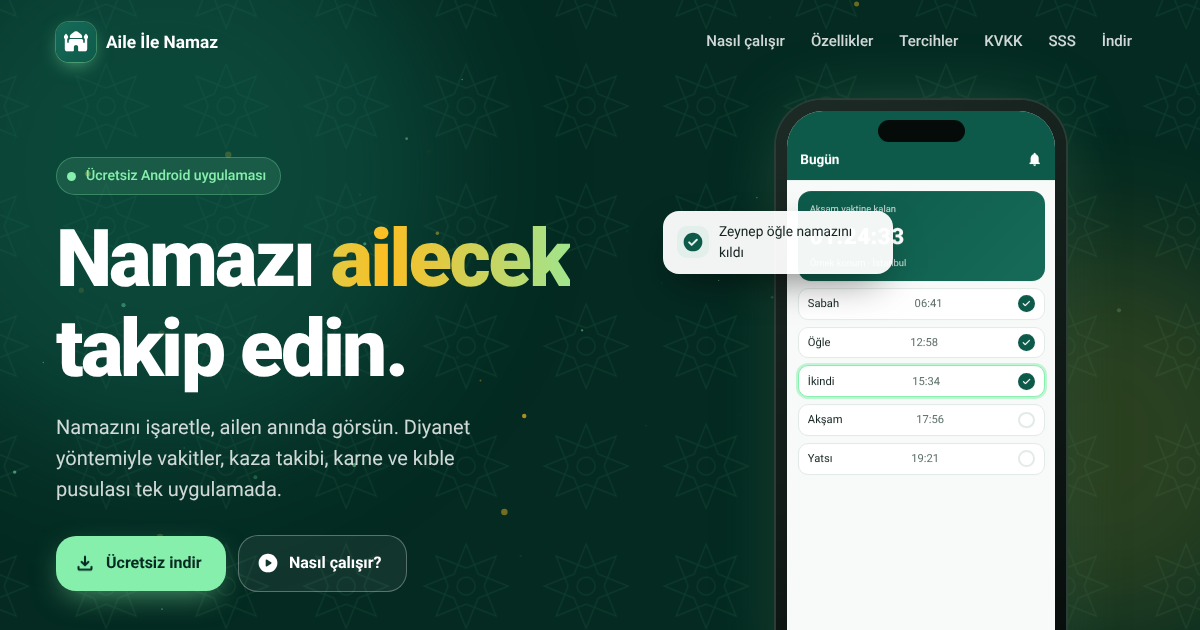
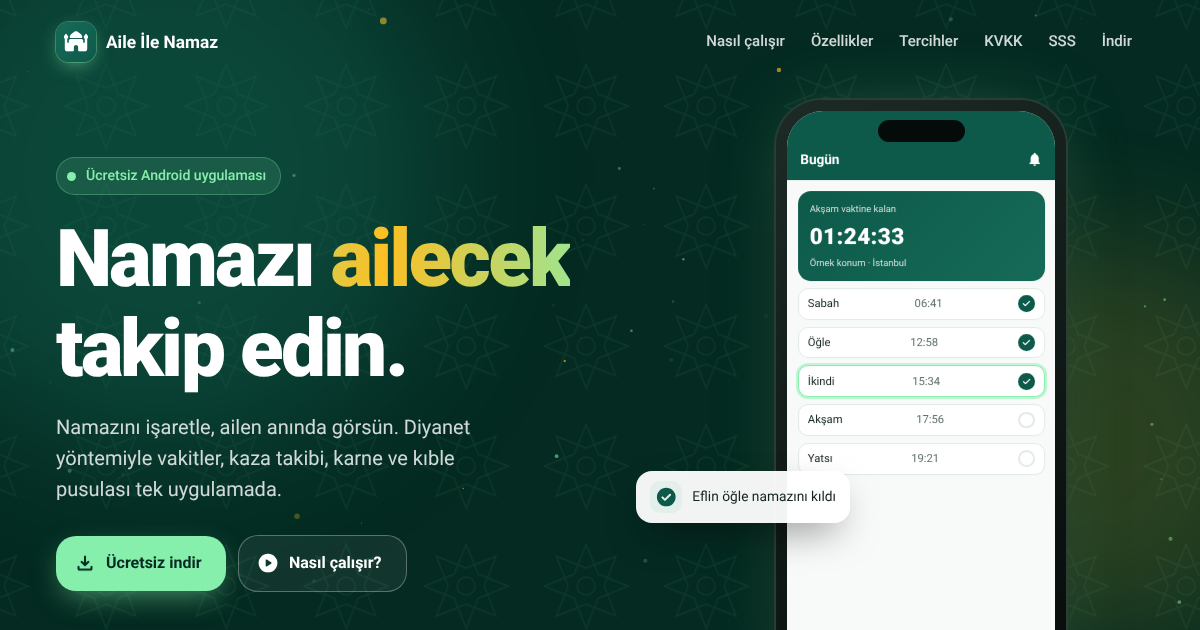
Tanıtım sitesi: canlı metinler, örnek isimler, düzeltmeler
- Gelecek zamanlı ve dağıtım kanalı ifadeleri kaldırıldı; örnek isimler güncellendi
- Derleme kanonik/OG/JSON-LD adreslerini boşaltıyordu, düzeltildi
- Erişilebilirlik ve HTML doğrulama düzeltmeleri (tablo başlıkları, main bölgesi, kontrast)

Claude-Session: https://claude.ai/code/session_01UZxX5PSChAXaJ22tX5oBzk

Changed region(s): [[0.555, 0.3317, 0.7708, 0.4825], [0.5242, 0.7238, 0.7092, 0.8746]]

diff --git a/docs/index.html b/docs/index.html
@@ -12,7 +12,7 @@
 <meta name="geo.region" content="TR">
 <meta name="geo.placename" content="Türkiye">
 <meta http-equiv="content-language" content="tr">
-<link rel="canonical" href="">
+<link rel="canonical" href="https://bilkil53.github.io/aile-ile-namaz/">
 <link rel="icon" href="icon.svg" type="image/svg+xml">
 <link rel="apple-touch-icon" href="og.png">
 <link rel="sitemap" type="application/xml" href="sitemap.xml">
@@ -21,64 +21,64 @@
 <meta property="og:site_name" content="Aile İle Namaz">
 <meta property="og:title" content="Aile İle Namaz – Namazı ailecek takip edin">
 <meta property="og:description" content="5 vakit namaz takibi, aile havuzu, kaza takibi, karne ve kıble pusulası. Ücretsiz Android uygulaması.">
-<meta property="og:url" content="">
-<meta property="og:image" content="og.png">
+<meta property="og:url" content="https://bilkil53.github.io/aile-ile-namaz/">
+<meta property="og:image" content="https://bilkil53.github.io/aile-ile-namaz/og.png">
 <meta property="og:image:width" content="1200">
 <meta property="og:image:height" content="630">
 <meta property="og:image:alt" content="Aile İle Namaz uygulaması: aile havuzu ve namaz vakitleri">
 <meta name="twitter:card" content="summary_large_image">
 <meta name="twitter:title" content="Aile İle Namaz – Namazı ailecek takip edin">
 <meta name="twitter:description" content="5 vakit namaz takibi, aile havuzu, kaza takibi, karne ve kıble pusulası.">
-<meta name="twitter:image" content="og.png">
+<meta name="twitter:image" content="https://bilkil53.github.io/aile-ile-namaz/og.png">
 <script type="application/ld+json">
 {
   "@context": "https://schema.org",
   "@graph": [
     {
       "@type": "WebSite",
-      "@id": "#website",
-      "url": "",
+      "@id": "https://bilkil53.github.io/aile-ile-namaz/#website",
+      "url": "https://bilkil53.github.io/aile-ile-namaz/",
       "name": "Aile İle Namaz",
       "inLanguage": "tr-TR",
-      "publisher": { "@id": "#org" }
+      "publisher": { "@id": "https://bilkil53.github.io/aile-ile-namaz/#org" }
     },
     {
       "@type": "Organization",
-      "@id": "#org",
+      "@id": "https://bilkil53.github.io/aile-ile-namaz/#org",
       "name": "Aile İle Namaz",
-      "url": "",
-      "logo": "og.png",
+      "url": "https://bilkil53.github.io/aile-ile-namaz/",
+      "logo": "https://bilkil53.github.io/aile-ile-namaz/og.png",
       "areaServed": { "@type": "Country", "name": "Türkiye" }
     },
     {
       "@type": "MobileApplication",
-      "@id": "#app",
+      "@id": "https://bilkil53.github.io/aile-ile-namaz/#app",
       "name": "Aile İle Namaz",
       "operatingSystem": "Android",
       "applicationCategory": "LifestyleApplication",
       "inLanguage": ["tr", "en"],
       "countriesSupported": "TR",
-      "url": "",
+      "url": "https://bilkil53.github.io/aile-ile-namaz/",
       "downloadUrl": "https://github.com/bilkil53/aile-ile-namaz/releases/latest",
-      "image": "og.png",
+      "image": "https://bilkil53.github.io/aile-ile-namaz/og.png",
       "description": "Ailenle birlikte 5 vakit namaz takibi: Diyanet yöntemiyle namaz vakitleri, en çok 5 kişilik aile havuzu, kaza namazı takibi, karne ve rozetler, kıble pusulası, vakit ve mübarek gün hatırlatmaları.",
       "featureList": ["5 vakit namaz takibi", "Diyanet yöntemiyle namaz vakitleri", "Aile havuzu (en çok 5 kişi)", "Kaza namazı takibi", "Karne, seri ve rozetler", "Kıble pusulası", "Vakit, Cuma ve mübarek gün hatırlatmaları", "İnternetsiz çalışma"],
       "offers": { "@type": "Offer", "price": "0", "priceCurrency": "TRY" },
-      "publisher": { "@id": "#org" }
+      "publisher": { "@id": "https://bilkil53.github.io/aile-ile-namaz/#org" }
     },
     {
       "@type": "FAQPage",
-      "@id": "#sss",
+      "@id": "https://bilkil53.github.io/aile-ile-namaz/#sss",
       "mainEntity": [
         { "@type": "Question", "name": "Aile İle Namaz nedir?", "acceptedAnswer": { "@type": "Answer", "text": "Aile İle Namaz, 5 vakit namazı ailecek takip etmek için hazırlanmış ücretsiz bir Android uygulamasıdır. Namazını işaretlersin, aile havuzundaki kişiler anında görür; kaza namazı takibi, karne ve kıble pusulası da vardır." } },
-        { "@type": "Question", "name": "Uygulama ücretli mi?", "acceptedAnswer": { "@type": "Answer", "text": "Bireysel kullanım ücretsizdir. Aile Pro isteğe bağlıdır; aile reisinin Pro alması, havuzdaki herkesi (en çok 5 kişi) Pro yapar. Satın alma Google Play üzerinden yapılacaktır." } },
+        { "@type": "Question", "name": "Uygulama ücretli mi?", "acceptedAnswer": { "@type": "Answer", "text": "Bireysel kullanım ücretsizdir. Aile Pro isteğe bağlıdır; aile reisinin Pro alması, havuzdaki herkesi (en çok 5 kişi) Pro yapar. Fiyat ve koşullar satın almadan önce uygulamada gösterilir." } },
         { "@type": "Question", "name": "Namaz vakitleri nasıl hesaplanıyor?", "acceptedAnswer": { "@type": "Answer", "text": "Vakitler bulunduğun konuma göre Diyanet İşleri Başkanlığı hesaplama yöntemiyle alınır. Aylık vakitler telefona kaydedildiği için internet olmadan da hatırlatmalar çalışır." } },
         { "@type": "Question", "name": "Aile havuzuna kaç kişi katılabilir?", "acceptedAnswer": { "@type": "Answer", "text": "Bir aile havuzunda en çok 5 kişi olur. Havuzu kuran kişi davet kodunu paylaşır, diğerleri bu kodla katılır." } },
         { "@type": "Question", "name": "Ailem kaza borcumu görebilir mi?", "acceptedAnswer": { "@type": "Answer", "text": "Hayır, ayrıntıyı göremez. Kaza bölümü mahremiyet korumalıdır; aile üyeleri yalnızca özet durumu görür." } },
         { "@type": "Question", "name": "Giriş yapmadan kullanabilir miyim?", "acceptedAnswer": { "@type": "Answer", "text": "Evet, gezinti modunda tüm ekranlara bakabilirsin. Gezinti yalnızca bakmak içindir; işaretleme, kayıt ve aile havuzu için Google ile giriş gerekir." } },
         { "@type": "Question", "name": "Verilerim nerede saklanıyor?", "acceptedAnswer": { "@type": "Answer", "text": "Veriler Avrupa Birliği'ndeki (Almanya, Frankfurt) sunucularda şifreli bağlantıyla saklanır, satılmaz ve reklam amacıyla kullanılmaz. Namaz kayıtları özel nitelikli veri sayıldığı için açık rızan alınır." } },
         { "@type": "Question", "name": "Hesabımı nasıl silerim?", "acceptedAnswer": { "@type": "Answer", "text": "Uygulamada Ayarlar bölümünden hesabını ve verilerini silebilirsin. Uygulamaya erişimin yoksa web sitesindeki Hesap silme sayfasındaki adımları izleyebilirsin." } },
-        { "@type": "Question", "name": "iPhone sürümü var mı?", "acceptedAnswer": { "@type": "Answer", "text": "Şimdilik yalnızca Android sürümü vardır. Uygulama GitHub üzerinden dağıtılıyor, Google Play sürümü hazırlanıyor." } }
+        { "@type": "Question", "name": "iPhone sürümü var mı?", "acceptedAnswer": { "@type": "Answer", "text": "Uygulama Android telefonlar için hazırdır; sayfadaki indirme düğmesiyle hemen kurabilirsin. iPhone sürümü yoktur." } }
       ]
     }
   ]
@@ -374,7 +374,7 @@ section.blk { padding-block: 80px; }
 .on .consent:nth-child(2) .box path { animation-delay: 0.5s; }
 @keyframes draw { from { stroke-dashoffset: 24; } }
 .consent > div { display: grid; gap: 4px; min-width: 0; }
-.caption { font-size: 0.88rem; color: var(--text-3); margin-bottom: 30px; }
+.caption { font-size: 0.88rem; color: var(--text-2); margin-bottom: 30px; }
 .facts { display: grid; grid-template-columns: repeat(3, 1fr); gap: 14px; }
 .fact { background: var(--card); border: 1px solid var(--border); border-radius: 20px; padding: 18px; display: grid; gap: 6px; align-content: start; }
 .fact .ms { font-size: 26px; color: var(--emerald); }
@@ -488,7 +488,7 @@ footer { position: relative; z-index: 1; border-top: 1px solid rgba(134,239,172,
         <a href="#sss">SSS</a>
         <a href="#indir">İndir</a>
       </nav>
-      <button class="menu-btn" id="menuBtn" aria-label="Menüyü aç" aria-expanded="false" aria-controls="nav"><span class="ms" aria-hidden="true">menu</span></button>
+      <button type="button" class="menu-btn" id="menuBtn" aria-label="Menüyü aç" aria-expanded="false" aria-controls="nav"><span class="ms" aria-hidden="true">menu</span></button>
     </div>
   </header>
 
@@ -511,7 +511,7 @@ footer { position: relative; z-index: 1; border-top: 1px solid rgba(134,239,172,
       </div>
       <div class="stage" id="heroStage">
         <div class="phone tilt" id="heroPhone"><div class="screen" data-screens></div></div>
-        <div class="bubble b1"><span class="ms e" aria-hidden="true">check_circle</span><span>Zeynep öğle namazını kıldı</span></div>
+        <div class="bubble b1"><span class="ms e" aria-hidden="true">check_circle</span><span>Eflin öğle namazını kıldı</span></div>
         <div class="bubble b2"><span class="ms g" aria-hidden="true">notifications_active</span><span>İkindi vakti girdi</span></div>
         <div class="bubble b3"><span class="ms p" aria-hidden="true">emoji_events</span><span>Yeni rozet: İstikrar Yıldızı</span></div>
       </div>
@@ -643,16 +643,16 @@ footer { position: relative; z-index: 1; border-top: 1px solid rgba(134,239,172,
           <div>
             <p class="label" style="color:#92400e">Aile Pro</p>
             <h2>Bir kişi alır, bütün aile Pro olur</h2>
-            <p>Bireysel kullanım ücretsizdir. Aile Pro'da aile reisinin Pro alması yeter: aile havuzundaki herkes (en çok 5 kişi) Pro olur. Satın alma Google Play üzerinden yapılacak, fiyatlar Play'de gösterilecek.</p>
+            <p>Bireysel kullanım ücretsizdir. Aile Pro'da aile reisinin Pro alması yeter: aile havuzundaki herkes (en çok 5 kişi) Pro olur. Fiyat ve koşullar satın almadan önce uygulamada gösterilir.</p>
           </div>
           <div class="ringfam" aria-hidden="true">
             <div class="spin"></div>
             <div class="crown"><span class="ms">workspace_premium</span></div>
             <span class="av" style="--k:0;background:#0e5a4a">A</span>
             <span class="av" style="--k:1;background:#0369a1">B</span>
-            <span class="av" style="--k:2;background:#ea580c">Z</span>
-            <span class="av" style="--k:3;background:#7e22ce">A</span>
-            <span class="av" style="--k:4;background:#d97706">E</span>
+            <span class="av" style="--k:2;background:#ea580c">E</span>
+            <span class="av" style="--k:3;background:#7e22ce">M</span>
+            <span class="av" style="--k:4;background:#d97706">+</span>
           </div>
         </div>
       </section>
@@ -668,8 +668,8 @@ footer { position: relative; z-index: 1; border-top: 1px solid rgba(134,239,172,
       <svg class="mosque" viewBox="0 0 1200 120" preserveAspectRatio="xMidYMax slice" aria-hidden="true"><path fill="#86efac" d="M0 120V96h120V70h10V40l4-8 4 8v30h10v26h40V80c0-22 18-40 40-40s40 18 40 40v16h30V60l6-14 6 14v36h60V84c0-40 34-72 76-72s76 32 76 72v12h60V60l6-14 6 14v36h30V80c0-22 18-40 40-40s40 18 40 40v16h40V70h10V40l4-8 4 8v30h10v26h180V84c0-18 16-32 34-32s34 14 34 32v12h112v24z"/></svg>
       <div class="in" style="position:relative">
         <h2 class="rv">Ailene davet kodunu gönder, birlikte başlayın</h2>
-        <p class="rv" style="--d:1">Uygulama şimdilik Android için GitHub üzerinden dağıtılıyor, Google Play sürümü hazırlanıyor. Türkçe ve İngilizce.</p>
-        <div class="cta rv" style="--d:2"><a class="btn main mag" href="https://github.com/bilkil53/aile-ile-namaz/releases/latest"><span class="ms" aria-hidden="true">android</span>Son sürümü indir (APK)</a></div>
+        <p class="rv" style="--d:1">Android telefonuna hemen kur, aile havuzunu kur ve davet kodunu paylaş. Türkçe ve İngilizce.</p>
+        <div class="cta rv" style="--d:2"><a class="btn main mag" href="https://github.com/bilkil53/aile-ile-namaz/releases/latest"><span class="ms" aria-hidden="true">android</span>Android için indir (APK)</a></div>
       </div>
     </section>
   </main>
@@ -682,7 +682,7 @@ footer { position: relative; z-index: 1; border-top: 1px solid rgba(134,239,172,
         <a href="kullanim-kosullari.html">Kullanım Koşulları</a>
         <a href="cerez-politikasi.html">Çerez Politikası</a>
         <a href="delete-account.html">Hesap silme</a>
-        <a href="https://github.com/bilkil53/aile-ile-namaz/issues">Destek</a>
+        <a href="privacy.html#kvkk">İletişim</a>
       </nav>
     </div>
   </footer>
@@ -708,7 +708,7 @@ footer { position: relative; z-index: 1; border-top: 1px solid rgba(134,239,172,
   var V = [["Sabah", "06:41"], ["Öğle", "12:58"], ["İkindi", "15:34"], ["Akşam", "17:56"], ["Yatsı", "19:21"]];
   function tabs(k) { return '<div class="tabs">' + ["home", "groups", "calendar_month", "emoji_events", "explore"].map(function (n, i) { return '<span class="ms' + (i === k ? " on" : "") + '">' + n + "</span>"; }).join("") + "</div>"; }
   function bar(t, ic) { return '<div class="abar"><b>' + t + '</b><span class="ms">' + ic + "</span></div>"; }
-  var fam = [["Anne", "#0e5a4a", [1, 1, 1, 0, 0]], ["Baba", "#0369a1", [1, 1, 1, 0, 0]], ["Zeynep", "#ea580c", [1, 1, 0, 0, 0]], ["Ali", "#7e22ce", [1, 0, 1, 0, 0]]];
+  var fam = [["Anne", "#0e5a4a", [1, 1, 1, 0, 0]], ["Baba", "#0369a1", [1, 1, 1, 0, 0]], ["Eflin", "#ea580c", [1, 1, 0, 0, 0]], ["Meva", "#7e22ce", [1, 0, 1, 0, 0]]];
   var S = [
     bar("Bugün", "notifications") + '<div class="body"><div class="next"><small>Akşam vaktine kalan</small><span class="cd" data-cd>01:24:36</span><small>Örnek konum · İstanbul</small></div>' +
       V.map(function (v, i) { return '<div class="vrow' + (i < 2 ? " done" : "") + (i === 2 ? " tap cur" : "") + '"><span>' + v[0] + '</span><span class="t">' + v[1] + '</span><span class="chk"><span class="ms">check</span></span>' + (i === 2 ? '<span class="ripple"></span>' : "") + "</div>"; }).join("") + "</div>" + tabs(0),

diff --git a/docs/privacy.html b/docs/privacy.html
@@ -11,11 +11,12 @@
 </style>
 </head>
 <body>
+<main>
 <p class="lang"><a href="privacy-en.html">English</a></p>
 <h1>Gizlilik Politikası ve KVKK Aydınlatma Metni</h1>
 <p><small>Son güncelleme: 21 Kasım 2026 · Uygulama: Aile İle Namaz (com.bilkil53.aile_ile_namaz)</small></p>
 <p>Bu metin, 6698 sayılı Kişisel Verilerin Korunması Kanunu&#x27;nun (&quot;Kanun&quot;) 10. maddesi ve Aydınlatma Yükümlülüğünün Yerine Getirilmesinde Uyulacak Usul ve Esaslar Hakkında Tebliğ uyarınca, Aile İle Namaz uygulamasında hangi kişisel verilerinizin, hangi amaçla ve hangi hukuki sebeple işlendiğini, kimlere aktarıldığını ve haklarınızı açıklar. Bu metin bilgilendirme amaçlıdır; aydınlatma için sizden onay istenmez. Özel nitelikli kişisel verileriniz için açık rızanız, aşağıdaki ayrı Açık Rıza Metni ile alınır.</p>
-<h2 id="kvkk">1. Veri sorumlusu</h2><p>Veri sorumlusu: Aile İle Namaz uygulamasının geliştiricisi (GitHub: bilkil53). İletişim: <a href="mailto:aileilenamaz@gmail.com">aileilenamaz@gmail.com</a>.</p>
+<h2 id="kvkk">1. Veri sorumlusu</h2><p>Veri sorumlusu: Aile İle Namaz uygulamasının geliştiricisi. İletişim: <a href="mailto:aileilenamaz@gmail.com">aileilenamaz@gmail.com</a>.</p>
 <h2>2. İşlenen kişisel veriler, amaçları ve hukuki sebepleri</h2><ul><li>Google hesabınızdan ad ve e-posta adresi (şifrenize erişmeyiz). Amaç: hesabınızı oluşturmak, giriş yapmanızı sağlamak ve sizi tanımak. E-postanız diğer kullanıcılara gösterilmez. Hukuki sebep: sözleşmenin kurulması ve ifası (Kanun md. 5/2-c).</li><li>Namaz işaretleri, kaza sayıları, dua ve tebrik mesajları; aile havuzu üyelikleri, ünvan ve simgeler. Amaç: uygulamanın temel hizmetini sunmak (namaz takibi, aile havuzu). Bu bilgiler yalnızca aynı aile havuzundaki kişilere gösterilir; kaza namazlarınızın hangi vakte ait olduğu yalnızca size görünür. Namaz işaretleri, kaza sayıları, dua ve tebrik mesajları dini inancınızı ortaya koyabileceği için Kanun&#x27;un 6. maddesi kapsamında özel nitelikli kişisel veri sayılır ve yalnızca açık rızanıza dayanılarak işlenir (md. 6/3-a). Aile havuzu üyelikleri, ünvan ve simgeler sözleşmenin ifası (md. 5/2-c) sebebiyle işlenir. Açık rıza vermezseniz giriş yapamazsınız; uygulamayı gezinti modunda görüntüleyebilirsiniz.</li><li>Bildirim kimliği (cihaz adresi), uygulama dili ve bildirim tercihleriniz (hangi bildirimleri almak istediğiniz, kilit ekranında görünüp görünmeyeceği). Amaç: aile bildirimlerini, uygulama kapalıyken de tercih ettiğiniz şekilde ve doğru dilde iletmek. Hukuki sebep: sözleşmenin ifası (md. 5/2-c).</li><li>Hata raporu: uygulama sürümü, Android sürümü, bellek kullanımı, uygulamanın kapanıp kapanmadığı, hata metni ve hatanın oluştuğu kod satırları. Yalnızca hata penceresinde &quot;Raporu gönder&quot;i seçerseniz gönderilir; otomatik gönderim yoktur. Rapor kaydında hesabınıza ait bir kimlik tutulmaz. Göndermeden önce metindeki e-posta adresleri, kimlik numaraları, telefon numaraları, oturum anahtarları, veritabanı hata ayrıntılarındaki satır değerleri ve dosya yolları otomatik olarak silinir; bu temizleme belirli kalıplara göre yapıldığı için hata metnindeki her bilgiyi yakalamayabilir. Amaç: uygulama hatalarını gidermek. Hukuki sebep: meşru menfaat (md. 5/2-f).</li><li>Giriş ve bağlantı sırasında altyapı sağlayıcısının tuttuğu teknik kayıtlar (IP adresi, zaman). Amaç: hesap ve sistem güvenliği, kötüye kullanımın önlenmesi. Bu kayıtlar sağlayıcının belirlediği kısa sürelerle tutulur ve sonra otomatik silinir. Hukuki sebep: meşru menfaat (md. 5/2-f).</li><li>Aydınlatma Metni&#x27;ni okuduğunuza dair beyanın ve açık rızanızın tarihi. Amaç: aydınlatma yükümlülüğünün yerine getirildiğini ve açık rızanızın alındığını gösterebilmek. Hukuki sebep: hukuki yükümlülüğün yerine getirilmesi (md. 5/2-ç).</li><li>Konum: namaz vakitlerini ve kıble yönünü hesaplamak için kullanılır; sunucumuza gönderilmez ve tarafımızca saklanmaz. Namaz vakitlerini almak için yaklaşık 1 km&#x27;ye yuvarlanmış koordinat, hesap ya da kimlik bilgisi olmadan, yurt dışındaki bir vakit servisine (api.aladhan.com) gönderilir. İlçe ve il adı telefonunuzun kendi adres servisiyle bulunur.</li></ul><p>Özel nitelikli kişisel verileriniz için Kurul&#x27;un belirlediği yeterli önlemler alınır: tüm bağlantılar şifrelidir; veritabanında herkes yalnızca kendi kaydını ve aile havuzunun ortak görünümünü görebilir (kaza vakitleri yalnızca size görünür); erişim yetkileri sınırlıdır; bu veriler reklam, pazarlama veya profilleme için kullanılmaz.</p><p>Giriş yapmadan (gezinti modunda) uygulama yalnızca görüntüleme içindir: işaretleme ve kayıt yapılmaz, sunucuya kişisel veri gönderilmez. Bir hata olursa, isterseniz yalnızca hesabınızla ilişkilendirilmeyen bir hata raporu gönderebilirsiniz.</p>
 <h2>3. Toplama yöntemi</h2><p>Kişisel verileriniz; Google ile giriş yaptığınızda ve uygulamayı kullandıkça, elektronik ortamda otomatik yollarla, uygulama ve altyapı sağlayıcıları aracılığıyla toplanır.</p>
 <h2>4. Aktarım</h2><p>Kişisel verileriniz yurt içinde üçüncü kişilere aktarılmaz. Kanunen yetkili kamu kurum ve kuruluşlarına, yalnızca hukuki yükümlülük halinde (md. 5/2-ç) bilgi verilebilir.</p><p>Uygulamanın sunucuları Türkiye dışında olduğundan, yukarıdaki veriler Kanun&#x27;un 9. maddesi kapsamında yurt dışına aktarılır: (a) Supabase Pte. Ltd. — veri tabanı ve giriş altyapısı (veri işleyen); veriler Avrupa Birliği&#x27;nde, Almanya&#x27;daki (Frankfurt) sunucularda saklanır. (b) Google LLC (Firebase Cloud Messaging ve Google ile giriş) — bildirimlerin iletilmesi ve giriş; Google&#x27;ın yurt dışındaki sunucuları. (c) Namaz vakti servisi (api.aladhan.com) — vakitlerin alınması; yalnızca yaklaşık 1 km&#x27;ye yuvarlanmış koordinat ve bağlantının doğası gereği IP adresiniz iletilir.</p><p>Bu aktarımlar Kanun&#x27;un 9. maddesi kapsamında yapılır. Aktarımın dayandığı güvence ve aktarılan alıcılar hakkında ayrıntılı bilgiyi 7. bölümdeki başvuru yoluyla isteyebilirsiniz.</p>
@@ -23,7 +24,7 @@
 <h2>6. Haklarınız</h2><p>Kanun&#x27;un 11. maddesi uyarınca veri sorumlusuna başvurarak:</p><ul><li>a) kişisel verilerinizin işlenip işlenmediğini öğrenme</li><li>b) işlenmişse buna ilişkin bilgi talep etme</li><li>c) işlenme amacını ve amacına uygun kullanılıp kullanılmadığını öğrenme</li><li>ç) yurt içinde veya yurt dışında aktarıldığı üçüncü kişileri bilme</li><li>d) eksik veya yanlış işlenmişse düzeltilmesini isteme</li><li>e) Kanun&#x27;un 7. maddesindeki şartlar çerçevesinde silinmesini veya yok edilmesini isteme</li><li>f) (d) ve (e) bentleri uyarınca yapılan işlemlerin, aktarıldığı üçüncü kişilere bildirilmesini isteme</li><li>g) münhasıran otomatik sistemlerle analiz edilmesi suretiyle aleyhinize bir sonucun ortaya çıkmasına itiraz etme</li><li>ğ) kanuna aykırı işlenmesi sebebiyle zarara uğramanız hâlinde zararın giderilmesini talep etme</li></ul>
 <h2>7. Başvuru</h2><p>Taleplerinizi, Veri Sorumlusuna Başvuru Usul ve Esasları Hakkında Tebliğ uyarınca yazılı olarak ya da uygulamada kayıtlı e-posta adresinizden <a href="mailto:aileilenamaz@gmail.com">aileilenamaz@gmail.com</a> adresine iletebilirsiniz. Başvurunuz, niteliğine göre en geç 30 gün içinde ücretsiz olarak sonuçlandırılır. Hesabınızı ve tüm verilerinizi ayrıca Ayarlar → Hesabımı ve verilerimi sil ile hemen silebilirsiniz. Açık rızanızı dilediğiniz zaman geri alabilirsiniz: Ayarlar → Hesabımı ve verilerimi sil ile namaz ve kaza kayıtlarınız dahil tüm verileriniz silinir. Rızanın geri alınması, daha önce yapılan işlemlerin hukuka uygunluğunu etkilemez.</p>
 <h2 id="acik-riza">8. Açık Rıza Metni</h2><p>Aydınlatma Metni&#x27;ni okudum. Aile İle Namaz uygulamasında tuttuğum namaz işaretlerimin, kaza sayılarımın ve aileme gönderdiğim dua ve tebrik mesajlarımın dini inancımı ortaya koyabilecek özel nitelikli kişisel veriler olduğunu biliyorum. Bu verilerin, uygulamanın namaz takibi ve aile havuzu hizmetini sunması amacıyla işlenmesine ve katıldığım aile havuzundaki kişilere gösterilmesine açık rıza veriyorum. Bu verilerin Avrupa Birliği&#x27;ndeki (Almanya, Frankfurt) sunucularda saklandığını biliyorum. Rızamı dilediğim zaman, hesabımı ve verilerimi silerek geri alabileceğimi biliyorum.</p>
-<h2 id="web-sitesi">Web sitesi</h2><p>bilkil53.github.io/aile-ile-namaz web sitesi çerez kullanmaz, tarayıcınıza veri kaydetmez ve ziyaretçi analizi yapmaz; yazı tipleri sitenin kendi dosyalarından yüklenir. Site GitHub Pages üzerinde barındırılır; GitHub, güvenlik amacıyla IP adresi gibi teknik kayıtları kendi gizlilik bildirimine göre tutabilir. Ayrıntılar: <a href="cerez-politikasi.html">Çerez Politikası</a> · <a href="kullanim-kosullari.html">Kullanım Koşulları</a>.</p>
+<h2 id="web-sitesi">Web sitesi</h2><p>Aile İle Namaz web sitesi çerez kullanmaz, tarayıcınıza veri kaydetmez ve ziyaretçi analizi yapmaz; yazı tipleri sitenin kendi dosyalarından yüklenir. Site bir barındırma hizmeti sağlayıcısında yayınlanır; sağlayıcı, güvenlik amacıyla IP adresi gibi teknik kayıtları kendi gizlilik bildirimine göre tutabilir. Ayrıntılar: <a href="cerez-politikasi.html">Çerez Politikası</a> · <a href="kullanim-kosullari.html">Kullanım Koşulları</a>.</p>
 <h2>Paylaşım</h2><p>Bilgilerinizi satmayız, reklam veya pazarlama amacıyla kullanmayız. Veriler yalnızca yukarıda sayılan altyapı sağlayıcıları üzerinde, uygulamanın çalışması için işlenir.</p>
 <h2>Hizmet sürekliliği</h2><p>Aile havuzu, aile bildirimleri, bulut yedekleme ve Pro gibi internet gerektiren özellikler, sunucu altyapısı (Supabase, Google Firebase) çalıştığı sürece kullanılabilir; bakım veya kesintide geçici olarak çalışmayabilir. Namaz vakitleri ve telefona kaydedilen işaretler internetsiz de çalışır; bağlantı gelince otomatik eşitlenir.</p>
 <h2>Güvenlik</h2><p>Tüm bağlantılar şifrelidir (HTTPS). Veritabanında satır düzeyi güvenlik kuralları vardır: herkes yalnızca kendi verisini ve üyesi olduğu aile havuzunun verisini görebilir.</p>
@@ -32,5 +33,6 @@
 <h2>Değişiklikler</h2><p>Bu metin güncellendiğinde yeni tarihi bu sayfada yayımlanır; önemli değişikliklerde uygulama içinde de bilgilendirilirsiniz.</p>
 
 <p><a href="index.html">← Ana sayfa</a></p>
+</main>
 </body>
 </html>

diff --git a/docs/privacy-en.html b/docs/privacy-en.html
@@ -11,11 +11,12 @@
 </style>
 </head>
 <body>
+<main>
 <p class="lang"><a href="privacy.html">Türkçe</a></p>
 <h1>Privacy Policy and KVKK Information Notice</h1>
 <p><small>Last updated: 21 November 2026 · App: Aile İle Namaz (com.bilkil53.aile_ile_namaz)</small></p>
 <p>This notice is provided under Article 10 of the Turkish Personal Data Protection Law No. 6698 (the &quot;Law&quot;) and the Communiqué on the Procedures and Principles for Fulfilling the Obligation to Inform. It explains which personal data the Aile İle Namaz app processes, for what purposes and on what legal grounds, to whom the data are transferred, and what your rights are. This notice is for information only; it does not ask for your approval of this notice. Your explicit consent for your special categories of personal data is obtained separately, through the Explicit Consent Text below.</p>
-<h2 id="kvkk">1. Data controller</h2><p>Data controller: the developer of the Aile İle Namaz app (GitHub: bilkil53). Contact: <a href="mailto:aileilenamaz@gmail.com">aileilenamaz@gmail.com</a>.</p>
+<h2 id="kvkk">1. Data controller</h2><p>Data controller: the developer of the Aile İle Namaz app. Contact: <a href="mailto:aileilenamaz@gmail.com">aileilenamaz@gmail.com</a>.</p>
 <h2>2. Personal data processed, purposes and legal grounds</h2><ul><li>Name and email address from your Google account (we never access your password). Purpose: to create your account, let you sign in and identify you. Your email is not shown to other users. Legal ground: establishment and performance of a contract (Law Art. 5(2)(c)).</li><li>Prayer marks, kaza counts, dua and greeting messages; family circle memberships, titles and icons. Purpose: to provide the app&#x27;s core service (prayer tracking, family circle). This information is shown only to people in the same family circle; which prayer time your kaza prayers belong to is visible only to you. Because prayer marks, kaza counts, dua and greeting messages may reveal your religious belief, they are special categories of personal data under Article 6 of the Law and are processed only on the basis of your explicit consent (Art. 6(3)(a)). Family circle memberships, titles and icons are processed for the performance of a contract (Art. 5(2)(c)). If you do not give explicit consent, you cannot sign in; you can still view the app in browsing mode.</li><li>Notification ID (device address), app language and your notification preferences (which notifications you want to receive, whether they show on the lock screen). Purpose: to deliver family notifications as you prefer and in the right language, even when the app is closed. Legal ground: performance of a contract (Art. 5(2)(c)).</li><li>Error report: app version, Android version, memory use, whether the app closed, the error text and the code lines where the error occurred. Sent only if you choose &quot;Send report&quot; in the error window; nothing is sent automatically. The report record does not contain any identifier of your account. Before sending, email addresses, ID numbers, phone numbers, session keys, row values in database error details and file paths in the text are removed automatically; because this cleaning works on specific patterns, it may not catch every piece of information in the error text. Purpose: to fix app errors. Legal ground: legitimate interest (Art. 5(2)(f)).</li><li>Technical records kept by the infrastructure provider during sign-in and connections (IP address, time). Purpose: account and system security, preventing misuse. These records are kept for short periods set by the provider and then deleted automatically. Legal ground: legitimate interest (Art. 5(2)(f)).</li><li>The dates of your statement that you have read the Information Notice and of your explicit consent. Purpose: to be able to show that the obligation to inform has been fulfilled and that your explicit consent was obtained. Legal ground: fulfilment of a legal obligation (Art. 5(2)(ç)).</li><li>Location: used to calculate prayer times and the qibla direction; it is not sent to our server and is not stored by us. To get prayer times, coordinates rounded to about 1 km are sent, without any account or identity information, to a prayer-times service abroad (api.aladhan.com). The district and province name is found by your phone&#x27;s own address service.</li></ul><p>For your special categories of personal data, the adequate measures determined by the Board are taken: all connections are encrypted; in the database everyone can see only their own record and the shared view of their family circle (kaza prayer times are visible only to you); access rights are limited; these data are not used for advertising, marketing or profiling.</p><p>Without signing in (browsing mode) the app is for viewing only: nothing is marked or saved and no personal data is sent to the server. If an error occurs, you may choose to send only an error report that is not linked to your account.</p>
 <h2>3. Method of collection</h2><p>Your personal data are collected by automated means in electronic form, through the app and its infrastructure providers, when you sign in with Google and as you use the app.</p>
 <h2>4. Transfers</h2><p>Your personal data are not transferred to third parties within Türkiye. Information may be provided to public authorities only where required by law (Art. 5(2)(ç)).</p><p>Because the app&#x27;s servers are outside Türkiye, the data above are transferred abroad within the scope of Article 9 of the Law: (a) Supabase Pte. Ltd. — database and sign-in infrastructure (data processor); data are stored in the European Union, on servers in Germany (Frankfurt). (b) Google LLC (Firebase Cloud Messaging and Google Sign-In) — delivering notifications and signing in; Google&#x27;s servers abroad. (c) The prayer-times service (api.aladhan.com) — getting prayer times; only coordinates rounded to about 1 km and, by the nature of the connection, your IP address are transmitted.</p><p>These transfers are made within the scope of Article 9 of the Law. You can request detailed information on the safeguard the transfers rely on and on the recipients through the application channel in section 7.</p>
@@ -23,7 +24,7 @@
 <h2>6. Your rights</h2><p>Under Article 11 of the Law, by applying to the data controller you have the right to:</p><ul><li>a) learn whether your personal data are processed</li><li>b) request information if they have been processed</li><li>c) learn the purpose of the processing and whether the data are used in line with that purpose</li><li>ç) know the third parties in Türkiye or abroad to whom the data are transferred</li><li>d) request rectification if the data are incomplete or inaccurate</li><li>e) request erasure or destruction under the conditions of Article 7 of the Law</li><li>f) request that the operations under (d) and (e) be notified to the third parties to whom the data were transferred</li><li>g) object to a result against you arising from analysis exclusively by automated systems</li><li>ğ) claim compensation if you suffer damage due to unlawful processing</li></ul>
 <h2>7. Applications</h2><p>You can send your requests in writing, or from the email address registered in the app to <a href="mailto:aileilenamaz@gmail.com">aileilenamaz@gmail.com</a>, in accordance with the Communiqué on the Procedures and Principles for Applications to the Data Controller. Your request will be concluded free of charge within 30 days at the latest, depending on its nature. You can also delete your account and all your data immediately via Settings → Delete my account and data. You can withdraw your explicit consent at any time: Settings → Delete my account and data deletes all your data, including your prayer and kaza records. Withdrawing consent does not affect the lawfulness of processing carried out before.</p>
 <h2 id="acik-riza">8. Explicit Consent Text</h2><p>I have read the Information Notice. I understand that the prayer marks and kaza counts I keep in the Aile İle Namaz app, and the dua and greeting messages I send to my family, are special categories of personal data that may reveal my religious belief. I give my explicit consent for these data to be processed so that the app can provide its prayer tracking and family circle service, and to be shown to the people in the family circles I join. I understand that these data are stored on servers in the European Union (Frankfurt, Germany). I understand that I can withdraw my consent at any time by deleting my account and data.</p>
-<h2 id="website">Website</h2><p>The bilkil53.github.io/aile-ile-namaz website uses no cookies, stores nothing in your browser and runs no visitor analytics; fonts are served from the site itself. The site is hosted on GitHub Pages; GitHub may keep technical logs such as IP addresses for security under its own privacy statement. Details (Turkish): <a href="cerez-politikasi.html">Cookie Policy</a> · <a href="kullanim-kosullari.html">Terms of Use</a>.</p>
+<h2 id="website">Website</h2><p>The Aile İle Namaz website uses no cookies, stores nothing in your browser and runs no visitor analytics; fonts are served from the site itself. The site is served by a hosting provider, which may keep technical logs such as IP addresses for security under its own privacy statement. Details (Turkish): <a href="cerez-politikasi.html">Cookie Policy</a> · <a href="kullanim-kosullari.html">Terms of Use</a>.</p>
 <h2>Sharing</h2><p>We do not sell your information or use it for advertising or marketing. Data are processed only on the infrastructure providers listed above, so that the app can work.</p>
 <h2>Service continuity</h2><p>Features that need the internet, such as the family circle, family notifications, cloud backup and Pro, are available as long as the server infrastructure (Supabase, Google Firebase) is running; they may be temporarily unavailable during maintenance or outages. Prayer times and marks saved on your phone work offline and sync automatically when the connection returns.</p>
 <h2>Security</h2><p>All connections are encrypted (HTTPS). The database has row-level security rules: everyone can see only their own data and the data of the family circle they belong to.</p>
@@ -32,5 +33,6 @@
 <h2>Changes</h2><p>When this notice is updated, the new date is published on this page; for significant changes you will also be informed in the app.</p>
 <p><i>This English text is a translation provided for information. In case of any difference, the Turkish text prevails.</i></p>
 <p><a href="index.html">← Home</a></p>
+</main>
 </body>
 </html>

diff --git a/docs/kullanim-kosullari.html b/docs/kullanim-kosullari.html
@@ -15,7 +15,7 @@
 <header class="top"><div class="in"><a href="./">Aile İle Namaz</a><nav><a href="privacy.html">Gizlilik ve KVKK</a><a href="cerez-politikasi.html">Çerez Politikası</a><a href="delete-account.html">Hesap silme</a></nav></div></header>
 <main class="in">
 <h1>Kullanım Koşulları</h1>
-<p class="meta">Yürürlük tarihi: 21 Kasım 2026 · Uygulama: Aile İle Namaz (com.bilkil53.aile_ile_namaz) · Web sitesi: bilkil53.github.io/aile-ile-namaz</p>
+<p class="meta">Yürürlük tarihi: 21 Kasım 2026 · Uygulama: Aile İle Namaz (com.bilkil53.aile_ile_namaz)</p>
 
 <div class="box">Uygulamayı indirerek, kurarak ya da kullanarak bu koşulları kabul etmiş olursun. Kabul etmiyorsan uygulamayı kullanma. Kişisel verilerinin nasıl işlendiği ayrıca <a href="privacy.html">Gizlilik Politikası ve KVKK Aydınlatma Metni</a>'nde anlatılır.</div>
 
@@ -71,7 +71,7 @@
 <p>Aile havuzu, bildirimler, bulut yedekleme ve Pro gibi internet gerektiren özellikler, sunucu altyapısı (Supabase, Google Firebase) çalıştığı sürece kullanılabilir. Bakım, güncelleme ya da altyapı kesintilerinde bu özellikler geçici olarak çalışmayabilir. Hizmetin özelliklerini geliştirebilir, değiştirebilir ya da makul bir süre önceden duyurarak sona erdirebiliriz.</p>
 
 <h2>9. Fikri mülkiyet</h2>
-<p>Uygulamanın adı, logosu, tasarımı ve içerikleri korunmaktadır. Kaynak kodun GitHub'da herkese açık görüntülenebilmesi, kullanım, kopyalama ya da dağıtım izni anlamına gelmez; bu tür kullanımlar depodaki lisans hükümlerine tabidir, lisans yoksa yazılı iznimiz gerekir. Uygulamadaki hadis ve dini metinler kaynaklarına aittir.</p>
+<p>Uygulamanın adı, logosu, tasarımı ve içerikleri korunmaktadır. Kaynak kodun herkese açık görüntülenebilmesi, kullanım, kopyalama ya da dağıtım izni anlamına gelmez; bu tür kullanımlar depodaki lisans hükümlerine tabidir, lisans yoksa yazılı iznimiz gerekir. Uygulamadaki hadis ve dini metinler kaynaklarına aittir.</p>
 
 <h2>10. Sorumluluğun sınırlandırılması</h2>
 <p>Hizmet "olduğu gibi" sunulur. Kesintisiz ve hatasız çalışacağını garanti etmeyiz. Kanunen sınırlandırılamayan haller (kast, ağır kusur ve tüketici mevzuatındaki zorunlu sorumluluklar) saklı kalmak üzere; vakit, kıble ya da hatırlatmalardaki sapmalardan, servis kesintilerinden, telefon ayarlarından ya da üçüncü taraf hizmetlerinden kaynaklanan dolaylı zararlardan sorumlu değiliz.</p>
@@ -86,7 +86,7 @@
 <p>Bu koşullara Türkiye Cumhuriyeti hukuku uygulanır. Tüketici sıfatıyla yaptığın başvurularda, her yıl ilan edilen parasal sınırlar içinde Tüketici Hakem Heyetleri, bu sınırları aşan uyuşmazlıklarda Tüketici Mahkemeleri yetkilidir.</p>
 
 <h2>14. İletişim</h2>
-<p>Soru ve talepler için Gizlilik Politikası'nda yazan iletişim adresini kullanabilir ya da <a href="https://github.com/bilkil53/aile-ile-namaz/issues">GitHub üzerinden talep</a> oluşturabilirsin (kişisel bilgilerini herkese açık yerlere yazma).</p>
+<p>Soru ve talepler için Gizlilik Politikası'nda yazan iletişim adresini kullanabilirsin.</p>
 </main>
 <footer><div class="in"><a href="./">Ana sayfa</a><a href="privacy.html">Gizlilik ve KVKK</a><a href="cerez-politikasi.html">Çerez Politikası</a><a href="delete-account.html">Hesap silme</a></div></footer>
 </body>

diff --git a/docs/cerez-politikasi.html b/docs/cerez-politikasi.html
@@ -15,7 +15,7 @@
 <header class="top"><div class="in"><a href="./">Aile İle Namaz</a><nav><a href="privacy.html">Gizlilik ve KVKK</a><a href="kullanim-kosullari.html">Kullanım Koşulları</a><a href="delete-account.html">Hesap silme</a></nav></div></header>
 <main class="in">
 <h1>Çerez Politikası</h1>
-<p class="meta">Son güncelleme: 21 Kasım 2026 · Kapsam: bilkil53.github.io/aile-ile-namaz web sitesi ve Aile İle Namaz uygulaması</p>
+<p class="meta">Son güncelleme: 21 Kasım 2026 · Kapsam: Aile İle Namaz web sitesi ve Aile İle Namaz uygulaması</p>
 
 <div class="box"><b>Kısaca:</b> Bu web sitesi çerez kullanmaz, tarayıcına bir şey kaydetmez, ziyaretçi analizi ya da reklam takibi yapmaz. Bu yüzden açılışta çerez onay penceresi göstermiyoruz.</div>
 
@@ -24,19 +24,20 @@
 
 <h2>2. Bu sitede kullanılan çerezler</h2>
 <div class="tw"><table>
-<tr><th>Tür</th><th>Kullanılıyor mu?</th><th>Açıklama</th></tr>
+<thead><tr><th scope="col">Tür</th><th scope="col">Kullanılıyor mu?</th><th scope="col">Açıklama</th></tr></thead>
+<tbody>
 <tr><td>Zorunlu çerezler</td><td>Hayır</td><td>Sitede giriş, sepet ya da oturum yok.</td></tr>
 <tr><td>Tercih çerezleri</td><td>Hayır</td><td>Dil ya da tema tercihi kaydedilmez.</td></tr>
 <tr><td>Analiz / istatistik</td><td>Hayır</td><td>Google Analytics ya da benzeri bir araç yok.</td></tr>
 <tr><td>Reklam / pazarlama</td><td>Hayır</td><td>Reklam ağı, piksel ya da takip kodu yok.</td></tr>
 <tr><td>Yerel depolama (localStorage vb.)</td><td>Hayır</td><td>Tarayıcına veri yazılmaz.</td></tr>
-</table></div>
+</tbody></table></div>
 
 <h2>3. Üçüncü taraf bağlantılar ve kaynaklar</h2>
 <ul>
 <li><b>Yazı tipleri ve ikonlar</b> sitenin kendi dosyalarından yüklenir; Google Fonts ya da başka bir sunucuya istek gönderilmez.</li>
-<li><b>Barındırma:</b> Site GitHub Pages üzerinde yayınlanır. GitHub, güvenlik ve hizmet sağlama amacıyla ziyaretçilerin IP adresi gibi teknik kayıtları kendi gizlilik bildirimine göre tutabilir. Bu kayıtlara erişimimiz yoktur.</li>
-<li><b>İndirme ve destek bağlantıları</b> seni GitHub'a götürür. Bu sayfalarda GitHub'ın kendi çerez ve gizlilik politikası geçerlidir.</li>
+<li><b>Barındırma:</b> Site bir barındırma hizmeti sağlayıcısının sunucularında yayınlanır. Sağlayıcı, güvenlik ve hizmet sağlama amacıyla ziyaretçilerin IP adresi gibi teknik kayıtları kendi gizlilik bildirimine göre tutabilir. Bu kayıtlara erişimimiz yoktur.</li>
+<li><b>İndirme bağlantısı</b> seni uygulama dosyasının barındırıldığı sunucuya götürür. O sayfada ilgili hizmetin kendi çerez ve gizlilik politikası geçerlidir.</li>
 </ul>
 
 <h2>4. Uygulamada çerez</h2>

diff --git a/docs/delete-account-en.html b/docs/delete-account-en.html
@@ -10,6 +10,7 @@
 </style>
 </head>
 <body>
+<main>
 <h1>Account and Data Deletion</h1>
 <p>You can have your account and data in the <b>Aile İle Namaz</b> app (developer: bilkil53) deleted in two ways.</p>
 
@@ -23,7 +24,7 @@
 </div>
 
 <h2>2. If you can't access the app</h2>
-<p>Send an email with the subject "Account deletion request" to <a href="mailto:aileilenamaz@gmail.com?subject=Account%20deletion%20request">aileilenamaz@gmail.com</a> from the email address of the Google account you signed in with. Requests are processed only when they come from the account's registered email address (identity check). The request is completed within 30 days at the latest and you are notified by email. Please don't post your request in public places (forums, GitHub, etc.).</p>
+<p>Send an email with the subject "Account deletion request" to <a href="mailto:aileilenamaz@gmail.com?subject=Account%20deletion%20request">aileilenamaz@gmail.com</a> from the email address of the Google account you signed in with. Requests are processed only when they come from the account's registered email address (identity check). The request is completed within 30 days at the latest and you are notified by email. Please don't post your request in public places (forums, social media, etc.).</p>
 
 <h2>Data that is deleted</h2>
 <ul>
@@ -35,5 +36,6 @@
 <p>In family circles where you are the head of family and that have other members, the head role passes to the oldest member; other people's data in the circle are not deleted. No personal data are kept after deletion; only the infrastructure provider's short-term technical security records are deleted when their own period ends.</p>
 <p><i>This English text is a translation provided for information. In case of any difference, the Turkish text prevails.</i></p>
 <p><a href="delete-account.html">Türkçe</a> · <a href="privacy-en.html">Privacy Policy</a> · <a href="index.html">Home</a></p>
+</main>
 </body>
 </html>

diff --git a/docs/delete-account.html b/docs/delete-account.html
@@ -10,6 +10,7 @@
 </style>
 </head>
 <body>
+<main>
 <h1>Hesap ve Veri Silme</h1>
 <p><b>Aile İle Namaz</b> (geliştirici: bilkil53) uygulamasındaki hesabınızı ve verilerinizi iki yoldan sildirebilirsiniz.</p>
 
@@ -23,7 +24,7 @@
 </div>
 
 <h2>2. Uygulamaya erişiminiz yoksa</h2>
-<p>Uygulamaya giriş yaptığınız Google hesabının e-posta adresinden <a href="mailto:aileilenamaz@gmail.com?subject=Hesap%20silme%20talebi">aileilenamaz@gmail.com</a> adresine "Hesap silme talebi" konulu bir e-posta gönderin. Talep yalnızca hesabın kayıtlı e-posta adresinden gelirse işleme alınır (kimlik doğrulama). Talep en geç 30 gün içinde yerine getirilir ve size e-postayla bildirilir. Lütfen talebinizi herkese açık yerlerde (forum, GitHub vb.) paylaşmayın.</p>
+<p>Uygulamaya giriş yaptığınız Google hesabının e-posta adresinden <a href="mailto:aileilenamaz@gmail.com?subject=Hesap%20silme%20talebi">aileilenamaz@gmail.com</a> adresine "Hesap silme talebi" konulu bir e-posta gönderin. Talep yalnızca hesabın kayıtlı e-posta adresinden gelirse işleme alınır (kimlik doğrulama). Talep en geç 30 gün içinde yerine getirilir ve size e-postayla bildirilir. Lütfen talebinizi herkese açık yerlerde (forum, sosyal medya vb.) paylaşmayın.</p>
 
 <h2>Silinen veriler</h2>
 <ul>
@@ -34,5 +35,6 @@
 </ul>
 <p>Reisi olduğunuz ve başka üyesi olan havuzlarda reislik en eski üyeye devredilir; havuzdaki diğer kişilerin verileri silinmez. Silme sonrası saklanan kişisel veri yoktur; yalnızca altyapı sağlayıcısının kısa süreli teknik güvenlik kayıtları kendi süresi dolunca silinir. Göndermeyi seçtiğiniz hata raporları hesabınızla ilişkilendirilmez ve 30 gün sonra otomatik silinir.</p>
 <p><a href="delete-account-en.html">English</a> · <a href="privacy.html">Gizlilik Politikası</a> · <a href="index.html">Ana sayfa</a></p>
+</main>
 </body>
 </html>
